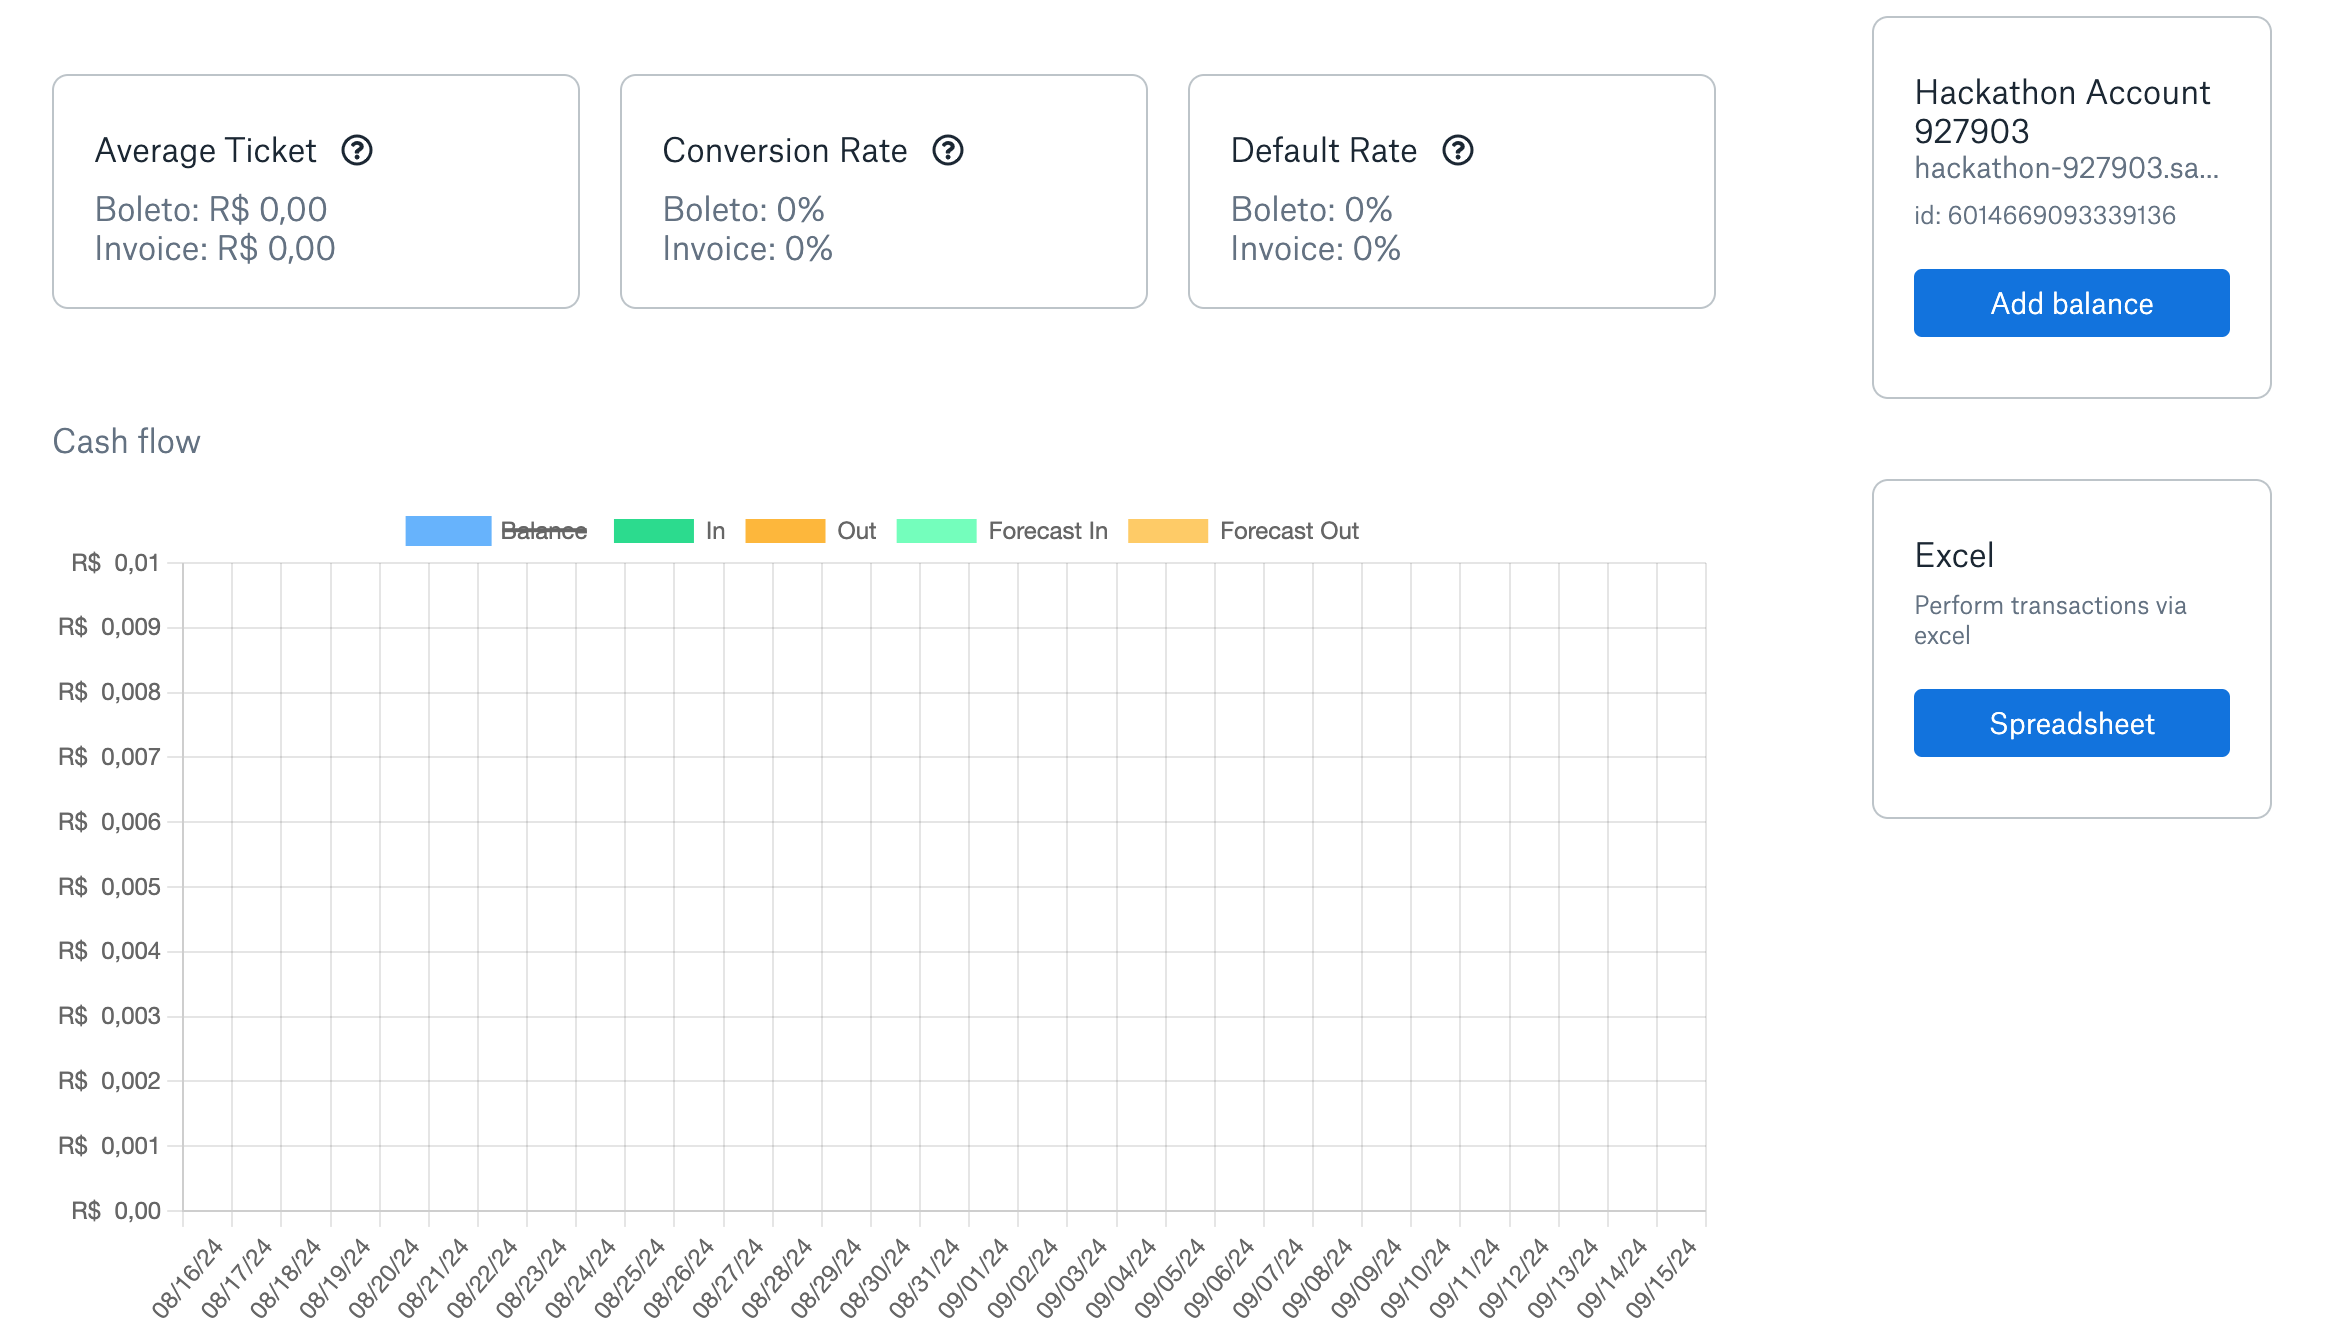
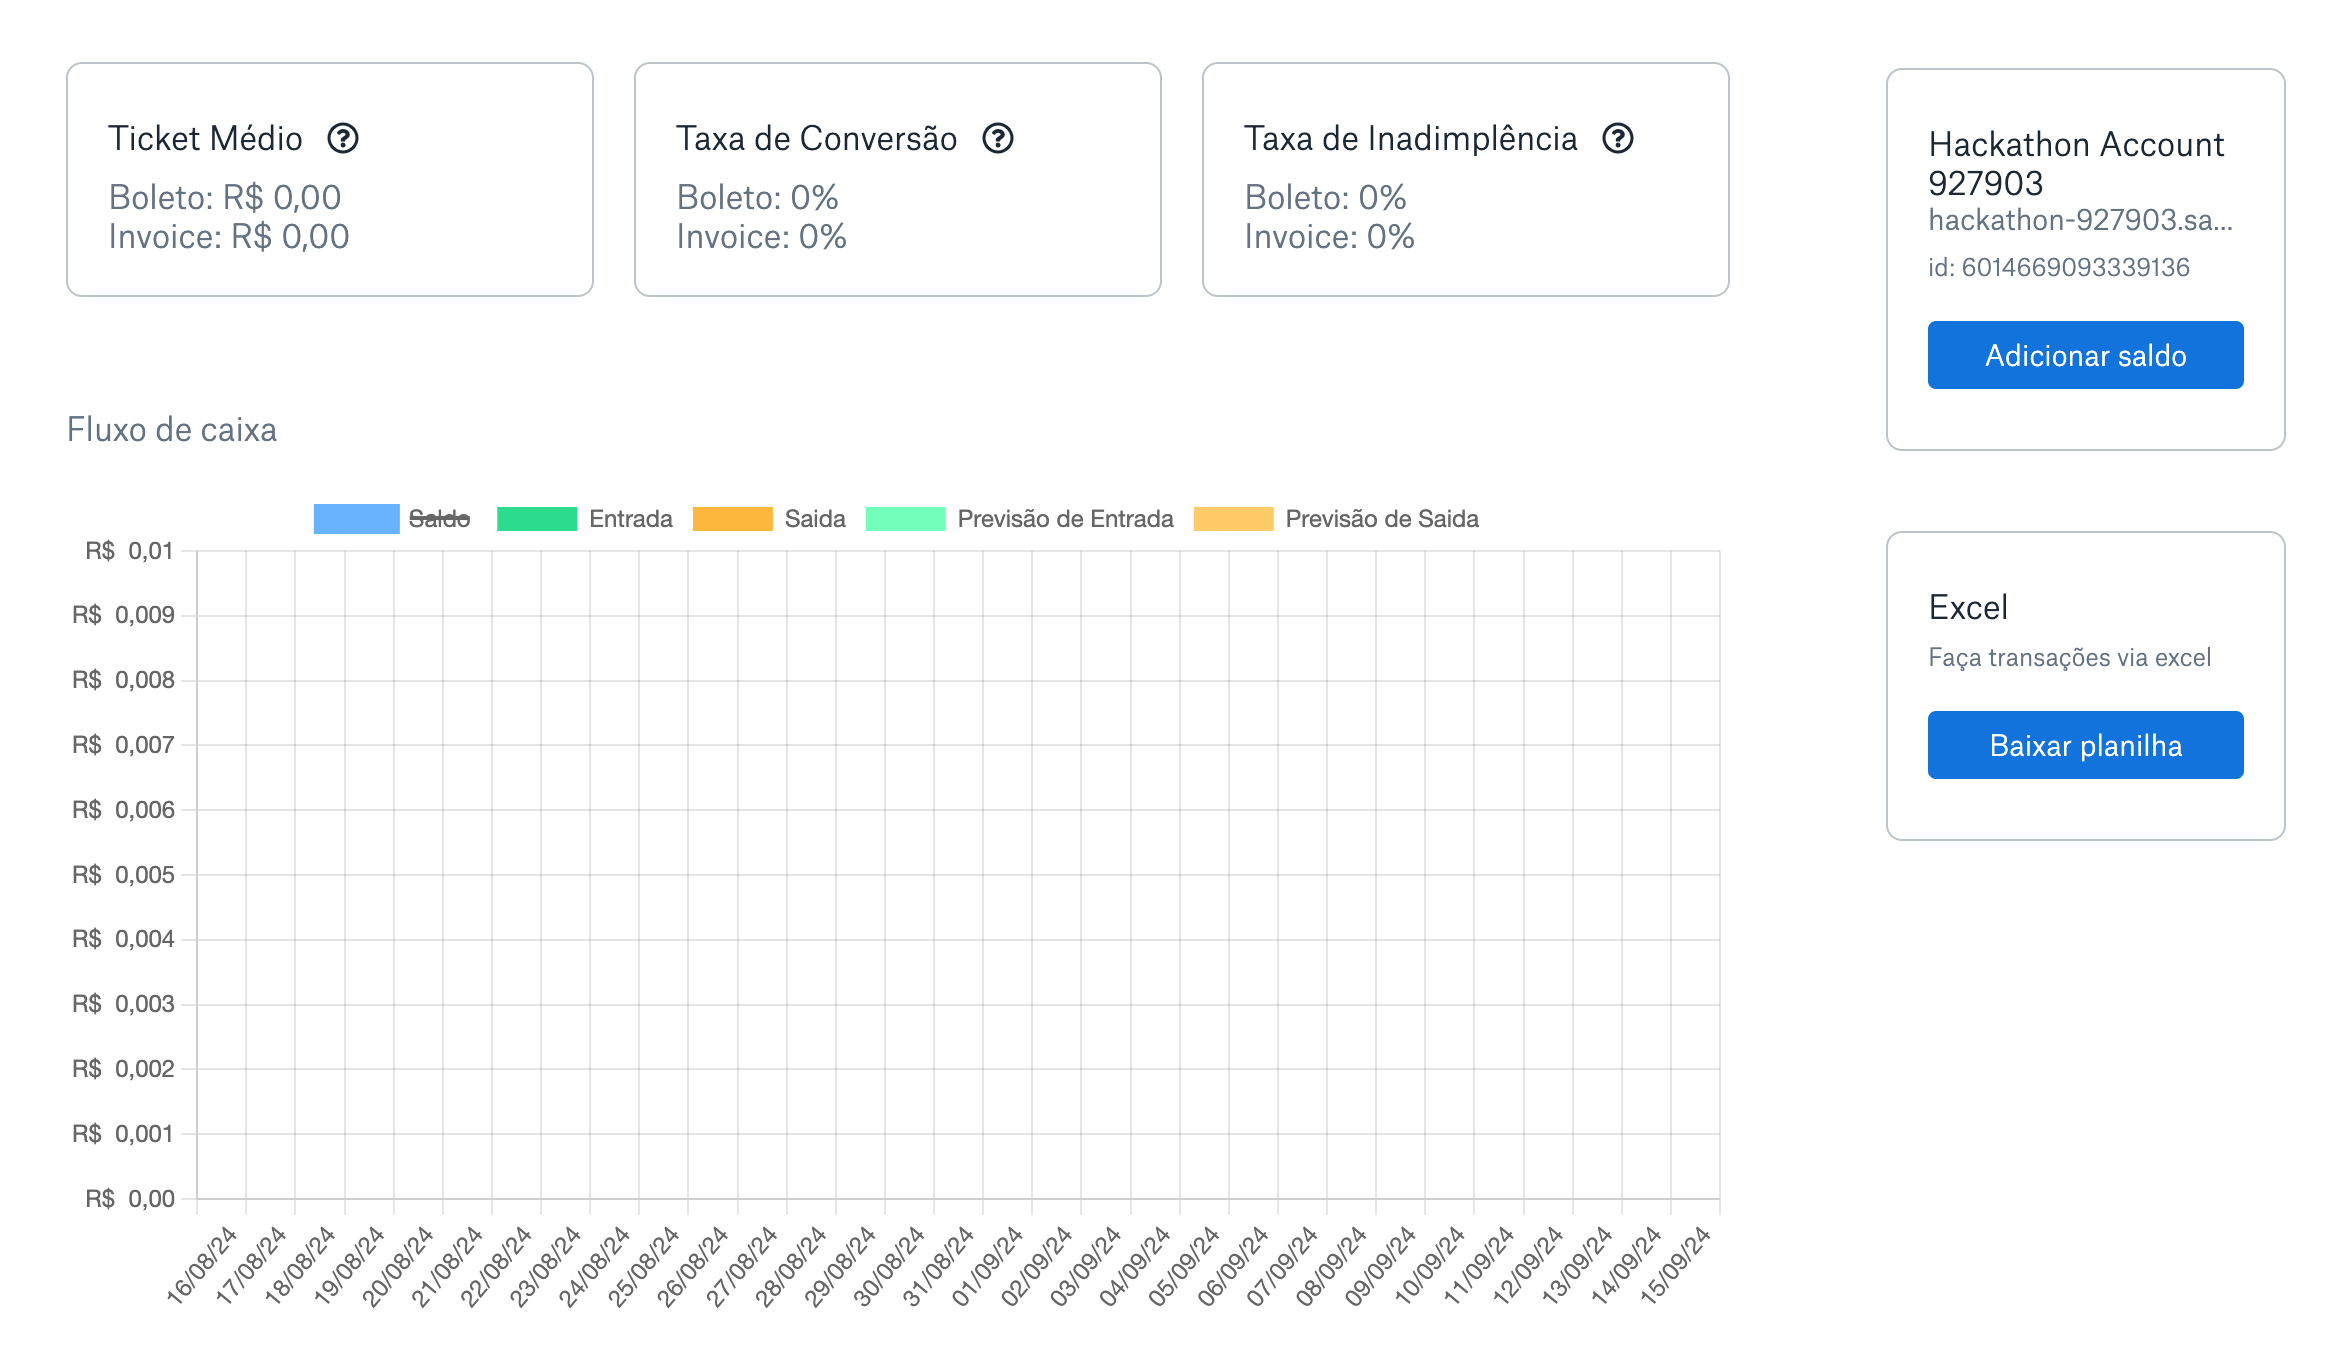
portuguese changes

diff --git a/lib/screens/home_screen.dart b/lib/screens/home_screen.dart
@@ -115,7 +115,7 @@ class _HomeScreenState extends State<HomeScreen> {
                       child: TextField(
                         controller: _textController,
                         decoration: const InputDecoration(
-                          hintText: 'Enter your message',
+                          hintText: 'Como posso te ajudar hoje?',
                         ),
                       ),
                     ),
@@ -171,6 +171,10 @@ class _HomeScreenState extends State<HomeScreen> {
                           IntegrationsTile(),
                           OperationsTile(),
                           PayablesTile(),
+                          SizedBox(
+                            height: 75,
+                          ),
+                          AccountTile(),
                         ],
                       ),
                     ),
@@ -181,32 +185,39 @@ class _HomeScreenState extends State<HomeScreen> {
                         child: Column(
                           crossAxisAlignment: CrossAxisAlignment.start,
                           children: [
-                            Text('Dashboard',
-                                style: TextStyle(
-                                    fontSize: 24.0,
-                                    fontWeight: FontWeight.bold)),
+                            Padding(
+                              padding:
+                                  const EdgeInsets.symmetric(horizontal: 25),
+                              child: Text('Dashboard',
+                                  style: TextStyle(
+                                      fontSize: 24.0,
+                                      fontWeight: FontWeight.bold)),
+                            ),
                             SizedBox(height: 20.0),
                             Row(
-                              mainAxisAlignment: MainAxisAlignment.spaceBetween,
+                              // mainAxisAlignment: MainAxisAlignment.spaceBetween,
                               children: [
-                                Container(
-                                  width: 250,
-                                  decoration: BoxDecoration(
-                                      borderRadius: BorderRadius.circular(5),
-                                      border:
-                                          Border.all(color: Color(0xFF0070E0))),
-                                  child: TextButton(
-                                    onPressed: () {},
-                                    child: Text(
-                                      'Daily: 16/08/2024 - 15/09/2024',
-                                      style:
-                                          TextStyle(color: Color(0xFF0070E0)),
+                                Padding(
+                                  padding: EdgeInsets.symmetric(horizontal: 25),
+                                  child: Container(
+                                    width: 250,
+                                    decoration: BoxDecoration(
+                                        borderRadius: BorderRadius.circular(5),
+                                        border: Border.all(
+                                            color: Color(0xFF0070E0))),
+                                    child: TextButton(
+                                      onPressed: () {},
+                                      child: Text(
+                                        'Diário: 16/08/2024 - 15/09/2024',
+                                        style:
+                                            TextStyle(color: Color(0xFF0070E0)),
+                                      ),
                                     ),
                                   ),
                                 ),
                                 Padding(
                                   padding: const EdgeInsets.symmetric(
-                                      horizontal: 27.5),
+                                      horizontal: 218),
                                   child: Row(
                                     children: [
                                       Container(
@@ -218,7 +229,7 @@ class _HomeScreenState extends State<HomeScreen> {
                                             color: Color(0xFF0070E0)),
                                         child: Center(
                                           child: Text(
-                                            'Daily',
+                                            'Diário',
                                             style:
                                                 TextStyle(color: Colors.white),
                                           ),
@@ -233,7 +244,7 @@ class _HomeScreenState extends State<HomeScreen> {
                                         ),
                                         child: Center(
                                           child: Text(
-                                            'Montly',
+                                            'Mensal',
                                             style: TextStyle(
                                                 color: Color(0xFF0070E0)),
                                           ),

diff --git a/lib/widget/expantion_tile_widget.dart b/lib/widget/expantion_tile_widget.dart
@@ -1,4 +1,4 @@
-// ignore_for_file: prefer_const_constructors
+// ignore_for_file: prefer_const_constructors, prefer_const_literals_to_create_immutables
 
 import 'package:flutter/material.dart';
 
@@ -8,7 +8,7 @@ class StatementTile extends StatelessWidget {
   @override
   Widget build(BuildContext context) {
     return const ListTile(
-      title: Text('Statement'),
+      title: Text('Extrato'),
     );
   }
 }
@@ -19,7 +19,7 @@ class MembersTile extends StatelessWidget {
   @override
   Widget build(BuildContext context) {
     return const ListTile(
-      title: Text('Members'),
+      title: Text('Membros'),
     );
   }
 }
@@ -30,13 +30,13 @@ class InvestmentsTile extends StatelessWidget {
   @override
   Widget build(BuildContext context) {
     return const ExpansionTile(
-      title: Text('Investments'),
+      title: Text('Investimentos'),
       children: [
         ListTile(
-          title: Text('My Investments'),
+          title: Text('Meus Investimentos'),
         ),
         ListTile(
-          title: Text('Accounting History'),
+          title: Text('Histórico Contábil'),
         ),
       ],
     );
@@ -49,13 +49,13 @@ class ReceivablesTile extends StatelessWidget {
   @override
   Widget build(BuildContext context) {
     return const ExpansionTile(
-      title: Text('Investments'),
+      title: Text('Recebimentos'),
       children: [
         ListTile(
-          title: Text('My Investments'),
+          title: Text('Invoices'),
         ),
         ListTile(
-          title: Text('Accounting History'),
+          title: Text('Boletos'),
         ),
       ],
     );
@@ -68,27 +68,27 @@ class CorporateCardTile extends StatelessWidget {
   @override
   Widget build(BuildContext context) {
     return ExpansionTile(
-      title: Text('Corporate Card'),
+      title: Text('Cartão Corporativo'),
       children: [
         ListTile(
-          title: Text('Overview'),
+          title: Text('Visão geral'),
           trailing: Container(
             padding: EdgeInsets.symmetric(horizontal: 8.0, vertical: 4.0),
             decoration: BoxDecoration(
               color: Colors.green,
               borderRadius: BorderRadius.circular(16.0),
             ),
-            child: Text('NEW', style: TextStyle(color: Colors.white)),
+            child: Text('NOVO', style: TextStyle(color: Colors.white)),
           ),
         ),
         ListTile(
           title: Text('Analytics'),
         ),
         ListTile(
-          title: Text('Cards'),
+          title: Text('Cartões'),
         ),
         ListTile(
-          title: Text('Purchases'),
+          title: Text('Compras'),
         ),
         ListTile(
           title: Text('Hackathon Account 927903'),
@@ -105,10 +105,10 @@ class IntegrationsTile extends StatelessWidget {
   @override
   Widget build(BuildContext context) {
     return ExpansionTile(
-      title: Text('Integrations'),
+      title: Text('Integrações'),
       children: const [
         ListTile(
-          title: Text('Projects'),
+          title: Text('Projetos'),
         ),
         ListTile(
           title: Text('Webhooks'),
@@ -124,10 +124,10 @@ class OperationsTile extends StatelessWidget {
   @override
   Widget build(BuildContext context) {
     return ExpansionTile(
-      title: Text('Operations'),
+      title: Text('Consultas'),
       children: const [
         ListTile(
-          title: Text('Deposits'),
+          title: Text('Depósitos'),
         ),
         ListTile(
           title: Text('Invoices'),
@@ -136,22 +136,22 @@ class OperationsTile extends StatelessWidget {
           title: Text('Boletos'),
         ),
         ListTile(
-          title: Text('Card Acquiring'),
+          title: Text('Adquirência'),
         ),
         ListTile(
-          title: Text('Transfers'),
+          title: Text('Transferências'),
         ),
         ListTile(
-          title: Text('Tax Payments'),
+          title: Text('Pagamentos de Impostos'),
         ),
         ListTile(
-          title: Text('Utility Payments'),
+          title: Text('Pagamentos de Concessionárias'),
         ),
         ListTile(
-          title: Text('Boletos Payments'),
+          title: Text('Pagamentos de Boletos'),
         ),
         ListTile(
-          title: Text('QR Code Payments'),
+          title: Text('Pagamentos de QR Code '),
         ),
       ],
     );
@@ -164,8 +164,30 @@ class PayablesTile extends StatelessWidget {
   @override
   Widget build(BuildContext context) {
     return ExpansionTile(
-      title: Text('Payables'),
+      title: Text('Pagamentos'),
       children: const [],
+    );
+  }
+}
+
+class AccountTile extends StatelessWidget {
+  const AccountTile({super.key});
+
+  @override
+  Widget build(BuildContext context) {
+    return Column(
+      children: [
+        Padding(
+          padding: const EdgeInsets.all(8.0),
+          child: Divider(
+            color: Color(0xFFBDC4C9),
+          ),
+        ),
+        ListTile(
+          title: Text('Hackathon Account 927903'),
+          trailing: Icon(Icons.arrow_drop_down),
+        ),
+      ],
     );
   }
 }
